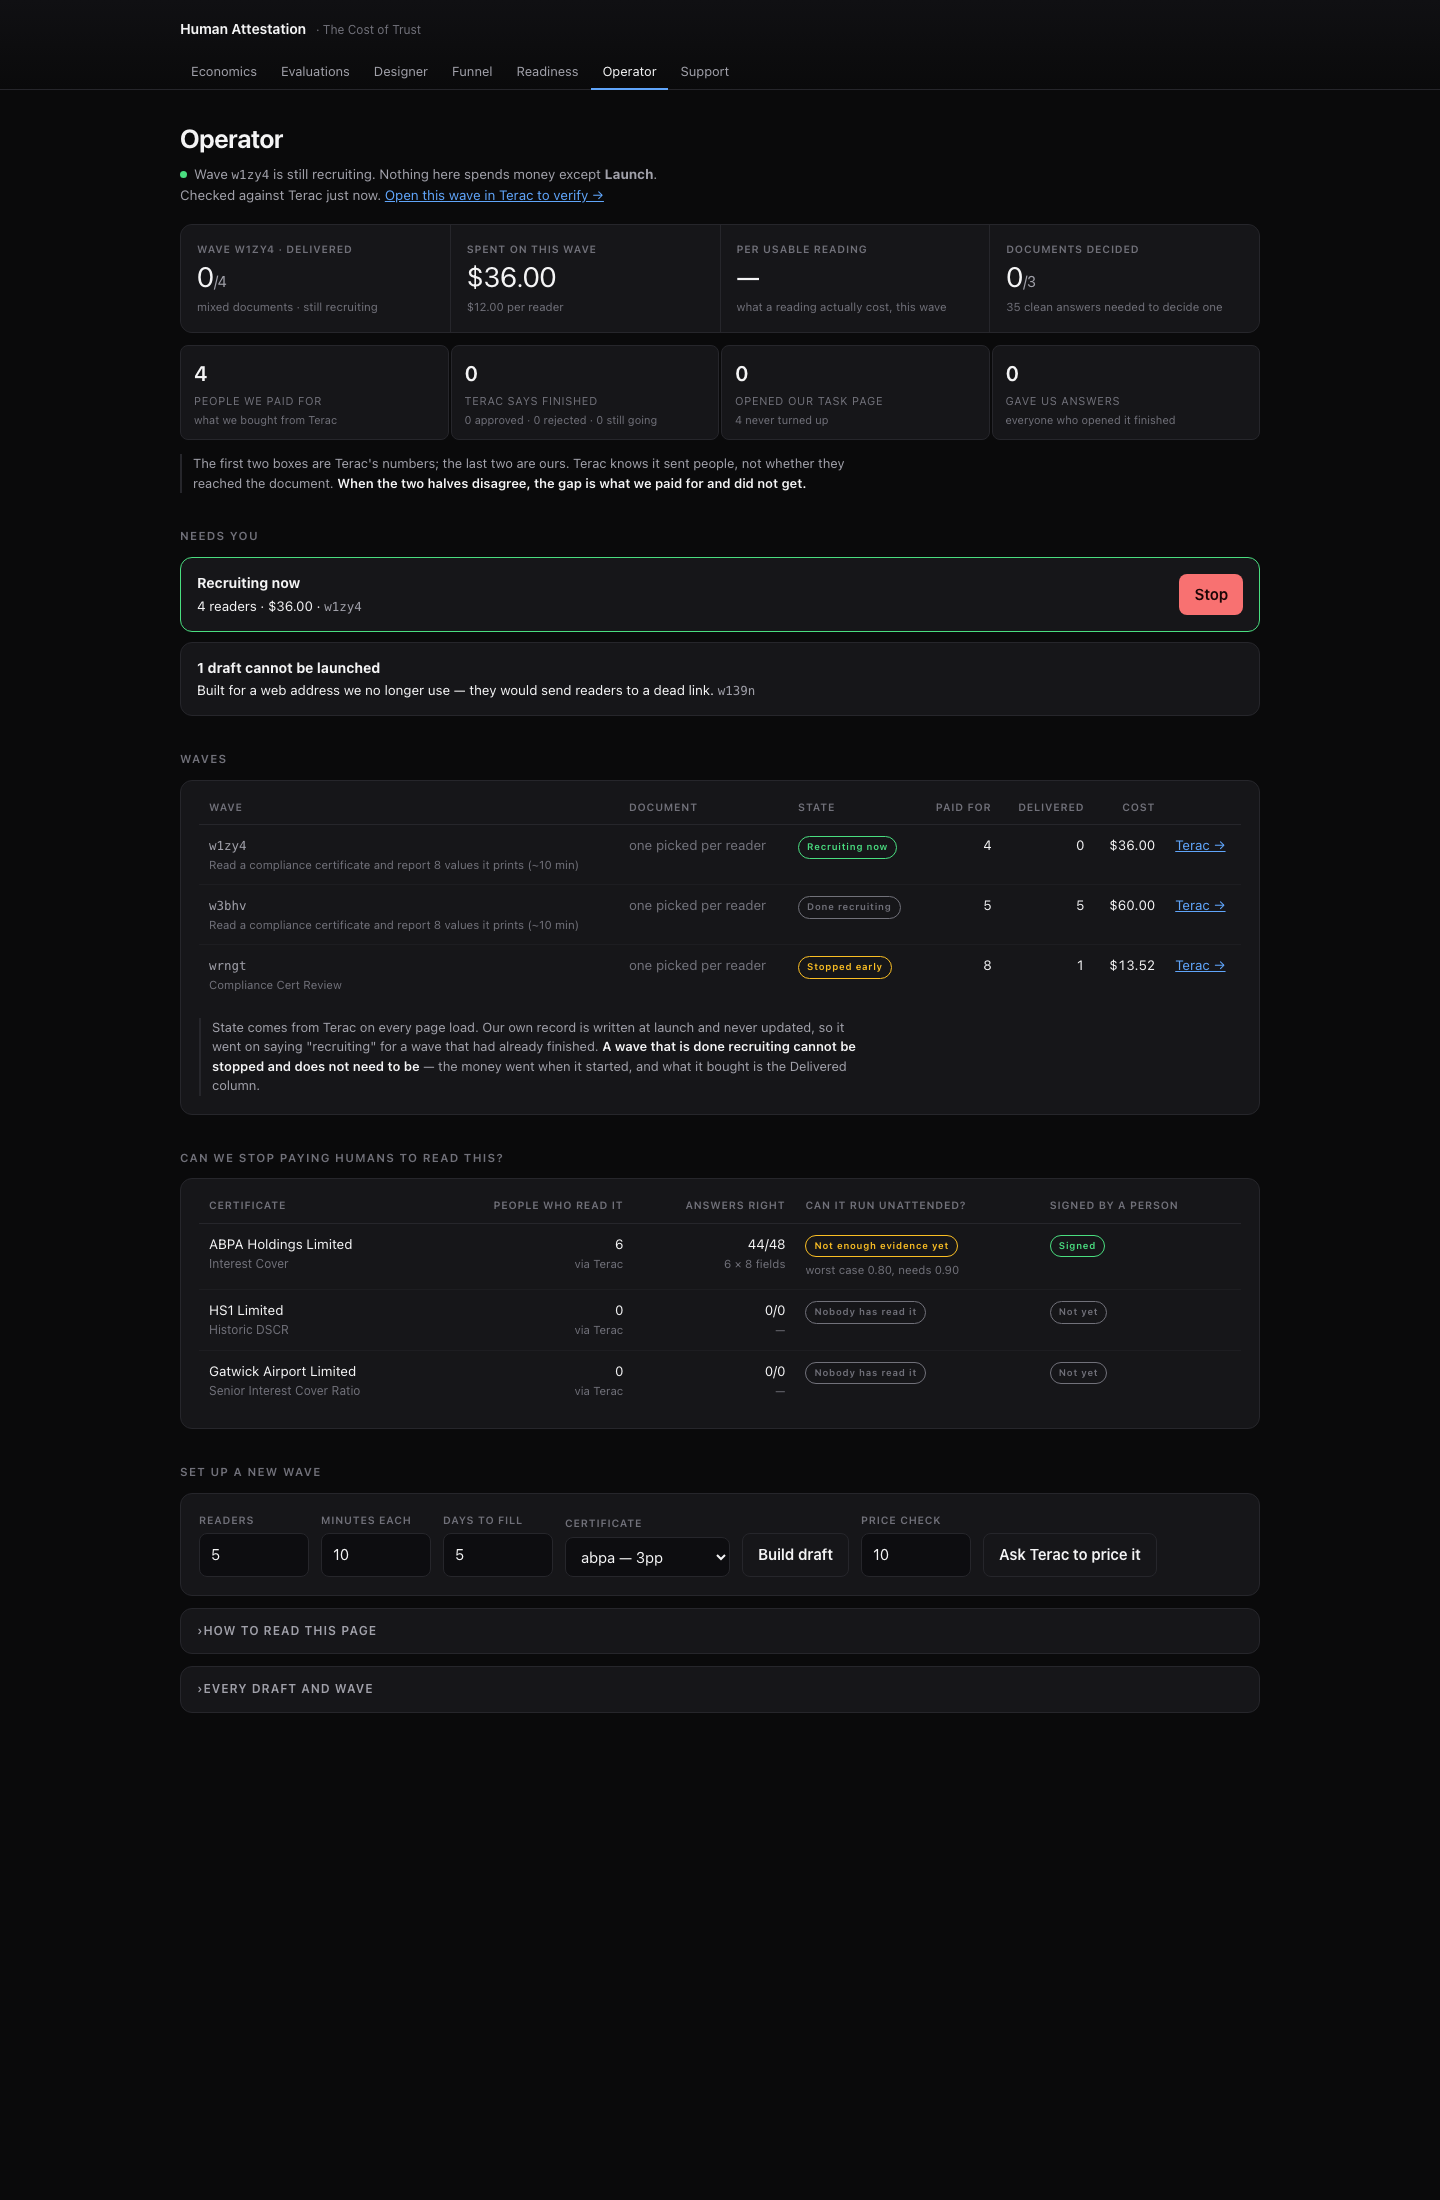
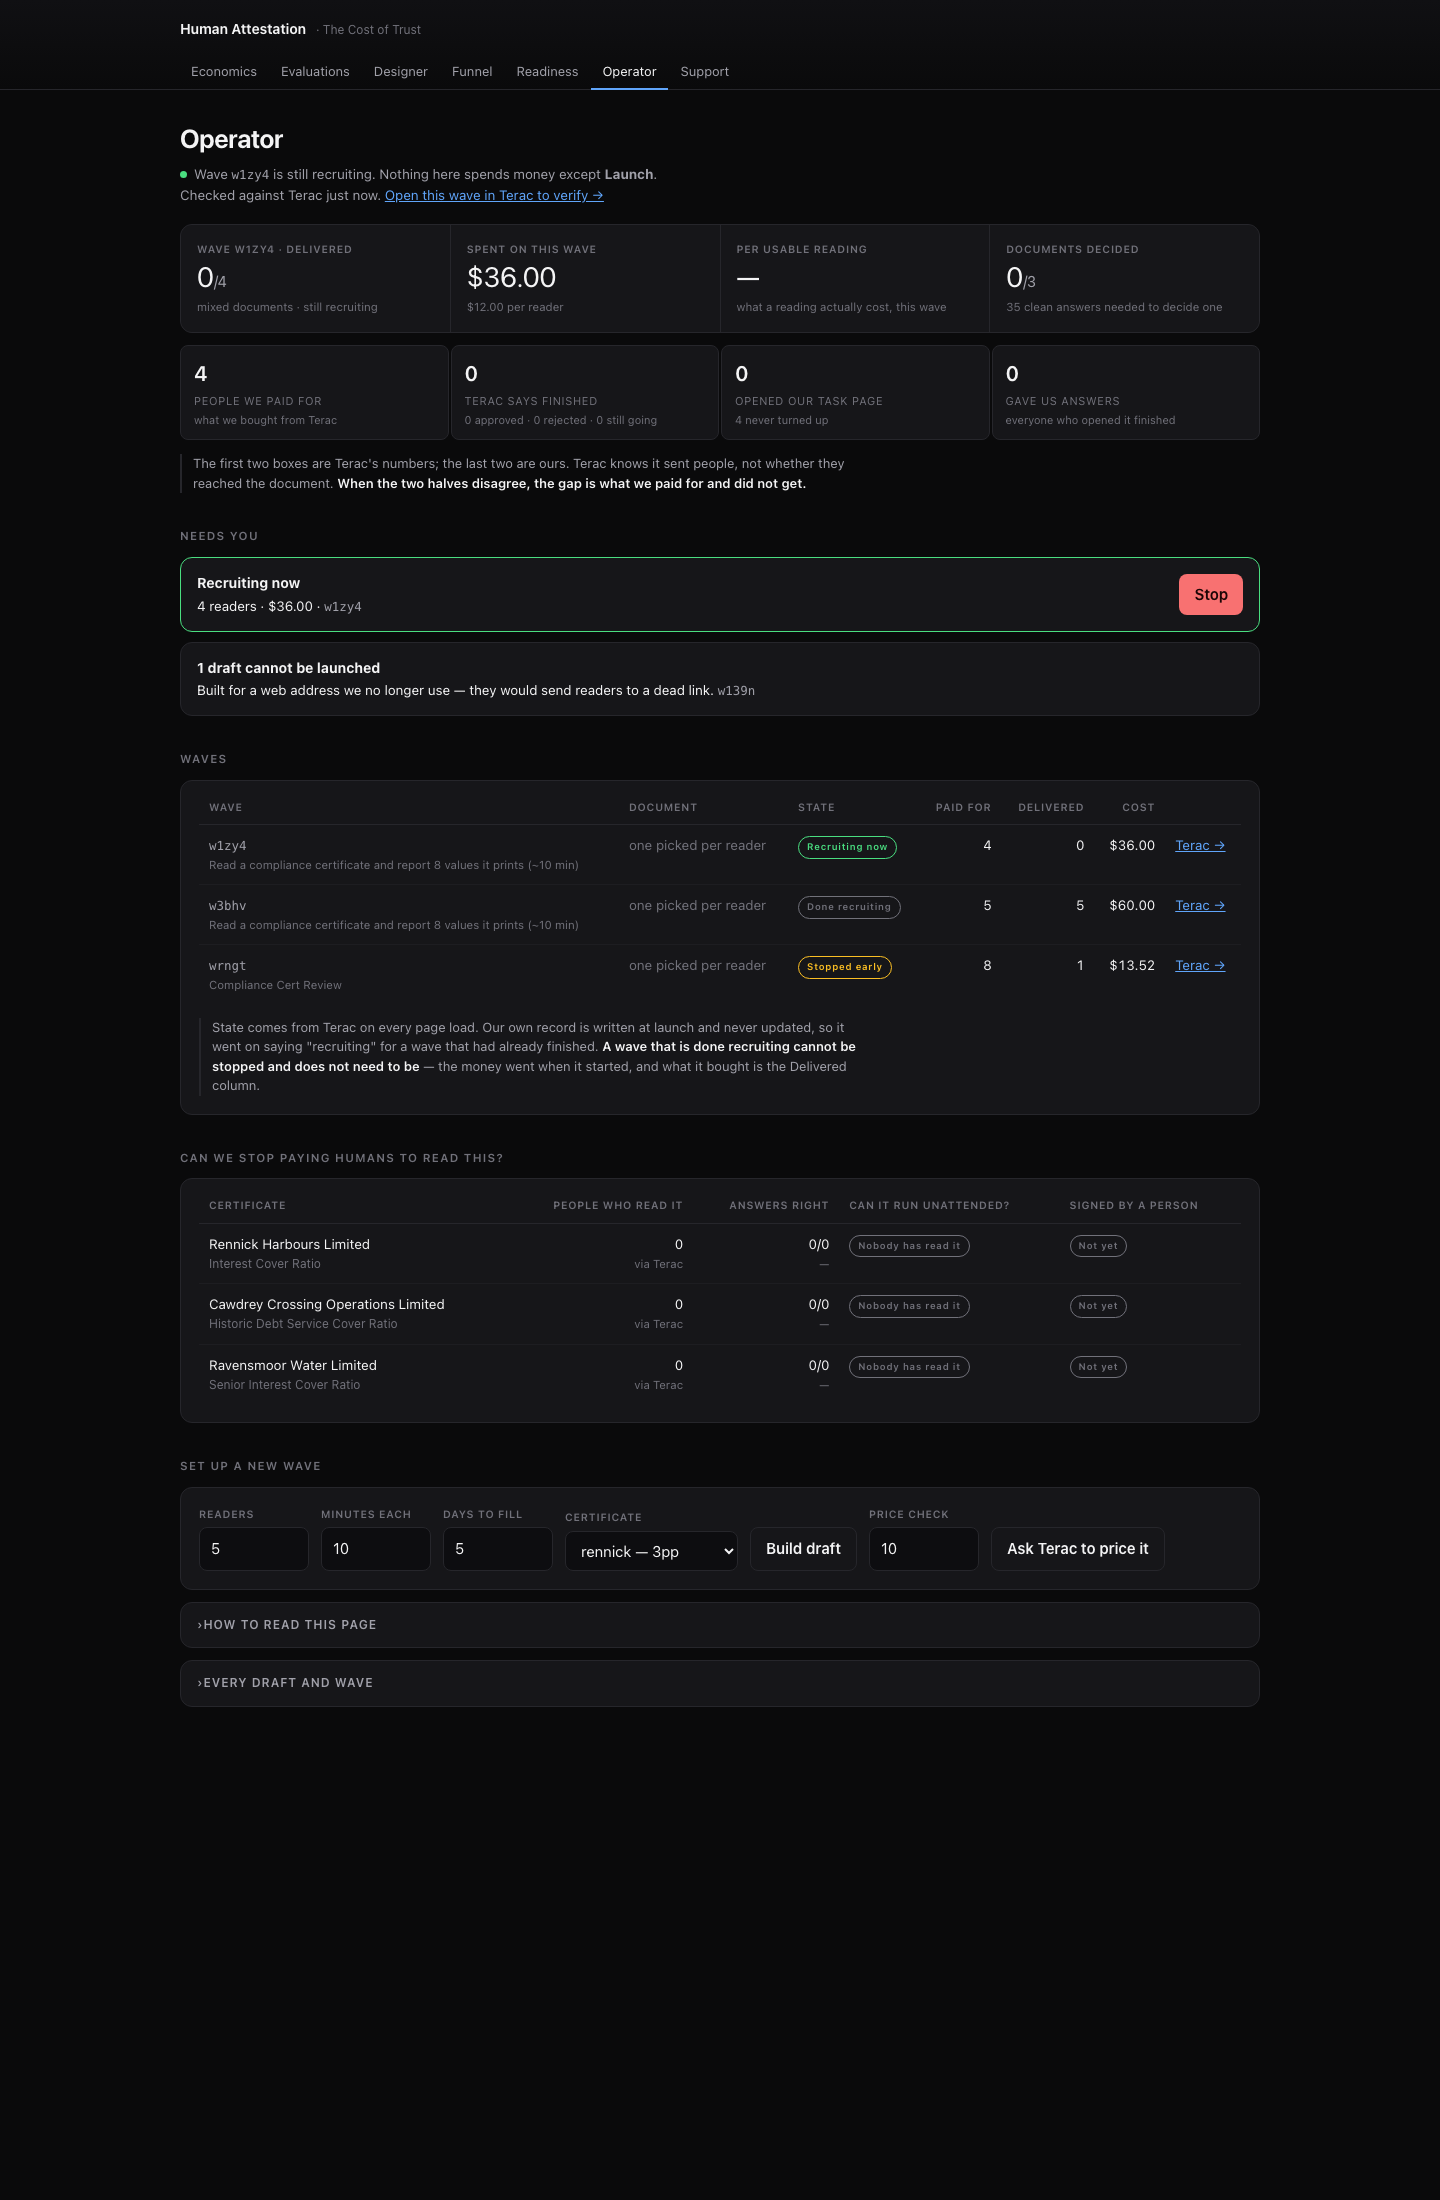
Re-shoot the screenshots against the invented certificates
The committed task-page screenshot reproduced an entire retired certificate
face -- the real obligor, its real security trustee and bond trustee, and the
support phone number -- as pixels in a README image, where no grep would ever
have found them.

The run log and funnel screenshots are removed rather than replaced. Both render
cert ids straight from the stored readings, which still carry the retired
identifiers, so a screenshot of either would put them back into the repository.
They return once that data is resolved.

diff --git a/README.md b/README.md
@@ -84,14 +84,11 @@ Total Terac spend across three waves: **$109.52**.
 ### The task an expert actually sees
 ![Task page](docs/screenshots/task-page.png)
 
-### Run log — provenance for every number
-![Run log](docs/screenshots/log.png)
-
-### Recruitment funnel
-![Funnel](docs/screenshots/funnel.png)
-
 ### Operator
 ![Operator](docs/screenshots/ops.png)
+
+The run log and funnel are not pictured: both render identifiers straight from
+the stored readings, which still refer to the superseded documents.
 
 ---
 
